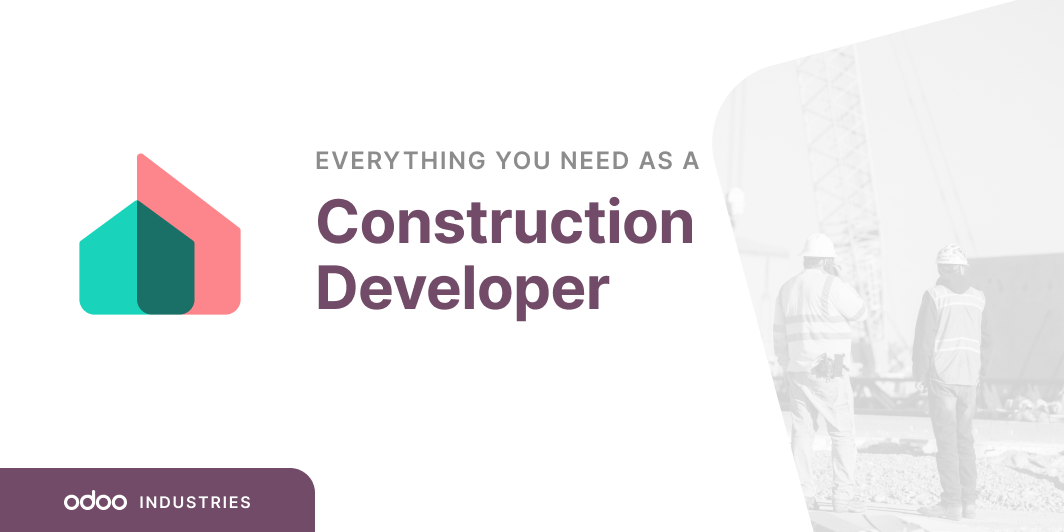
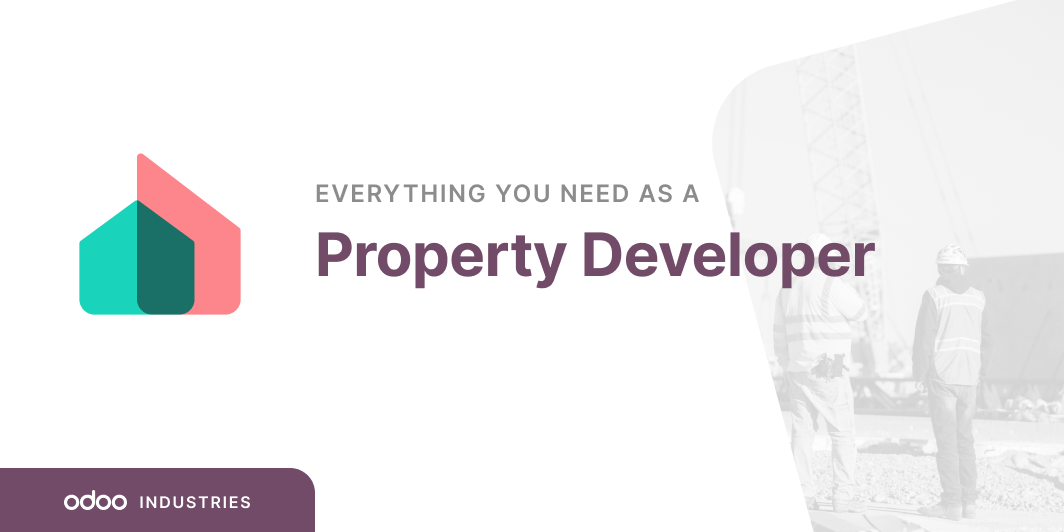
[FIX] .*: align construction(_developer) module names and images
Align the module name and image of the Construction and Construction Developer
industries with those used in the trial database.

Task-6560050

closes odoo/industry#2977

closes odoo/industry#3020

X-original-commit: 30ee438225be6ca8789ba991fb0ce8306678f52f

Changed region(s): [[0.2791, 0.2707, 0.8374, 0.6015]]

diff --git a/construction_developer/__manifest__.py b/construction_developer/__manifest__.py
@@ -1,5 +1,5 @@
 {
-    'name': 'Construction Developer',
+    'name': 'Property Developer',
     'version': '1.17',
     'category': 'Construction',
     'depends': [

diff --git a/construction/__manifest__.py b/construction/__manifest__.py
@@ -1,5 +1,5 @@
 {
-    'name': 'Construction Builder',
+    'name': 'General Contractor',
     'version': '1.4',
     'category': 'Construction',
     'depends': [
